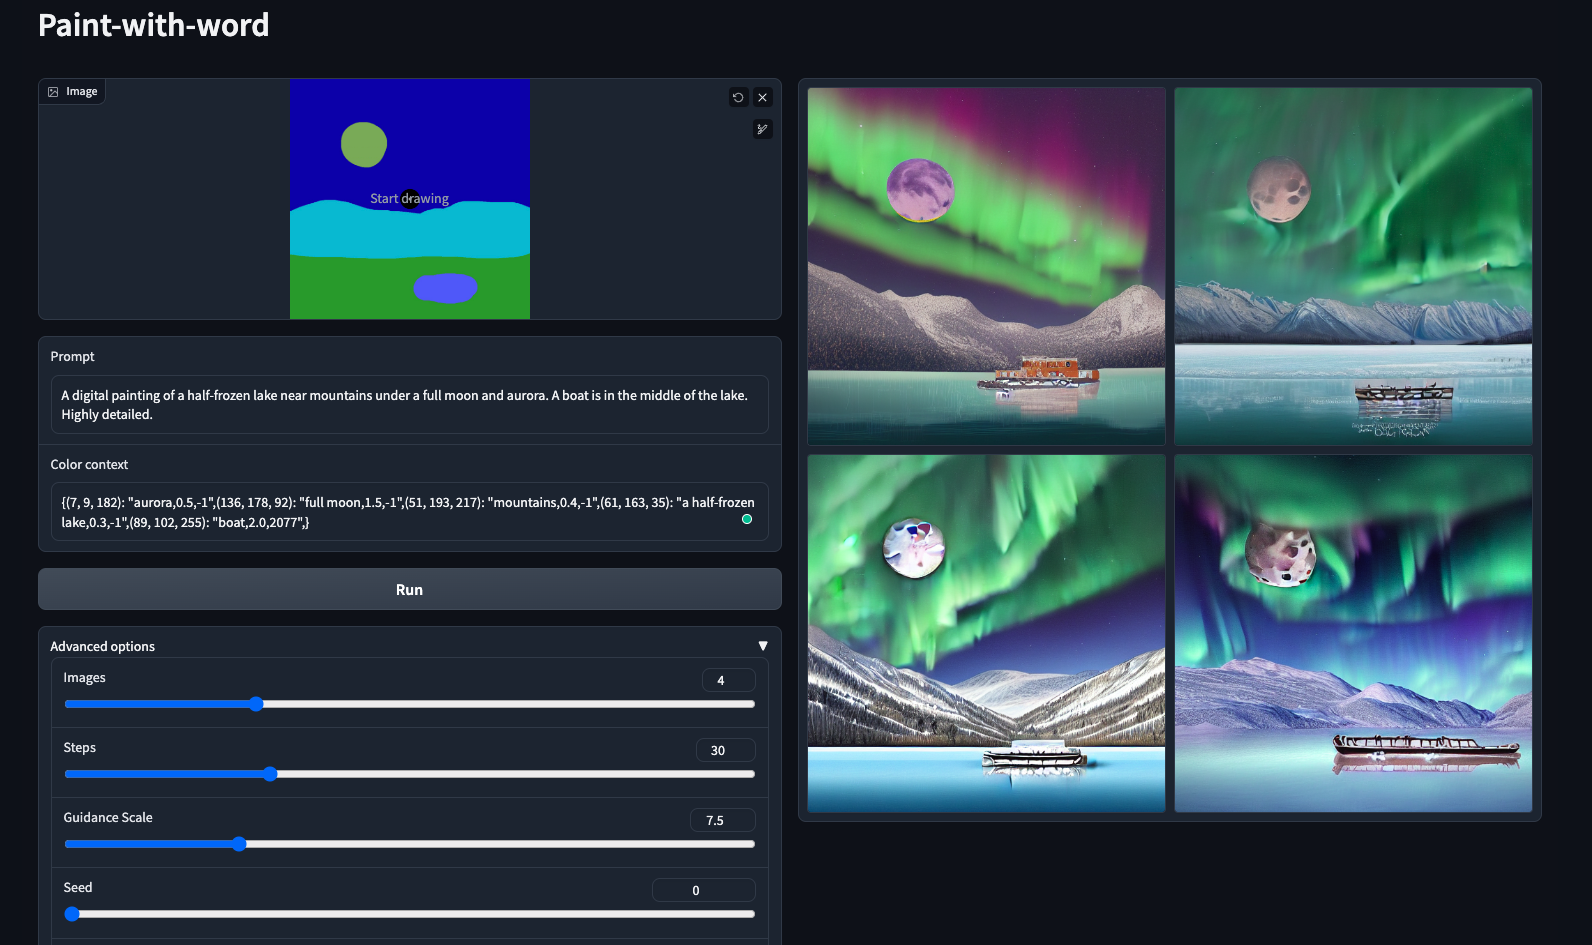
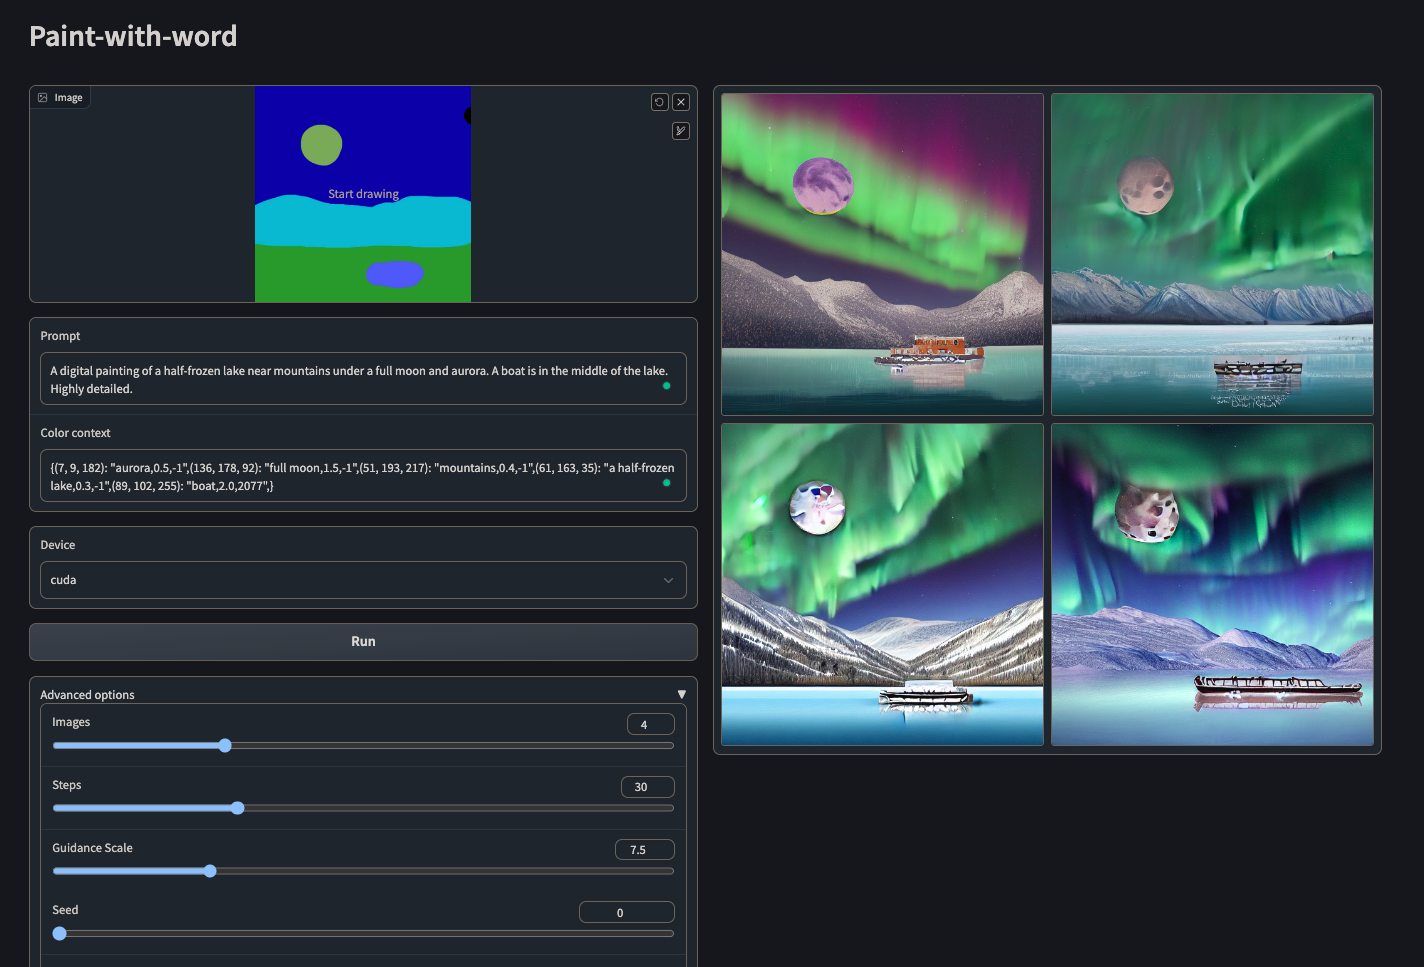
Add device to gradio ui

diff --git a/gradio_pww.py b/gradio_pww.py
@@ -12,11 +12,13 @@ from paint_with_words import paint_with_words
 dotenv.load_dotenv()
 
 
-def run_pww(input_image, color_context, input_prompt, a_prompt, n_prompt, num_samples, ddim_steps, scale, seed, eta):
+def run_pww(input_image, color_context, input_prompt, a_prompt, n_prompt, num_samples, ddim_steps, scale, seed, eta, device):
     
     color_map_image = Image.fromarray(input_image['image'])
     color_context = ast.literal_eval(color_context)
-    
+    if device == 'cuda':
+        device += ':0'
+
     gen_seed = [seed]
     if num_samples > 1:
         gen = torch.Generator()
@@ -32,7 +34,7 @@ def run_pww(input_image, color_context, input_prompt, a_prompt, n_prompt, num_sa
             unconditional_input_prompt=n_prompt,
             num_inference_steps=ddim_steps,
             guidance_scale=scale,
-            device="cuda:0",
+            device=device,
             seed=_seed,
             weight_function=lambda w, sigma, qk: 0.4 * w * math.log(1 + sigma) * qk.max(),
             strength=eta
@@ -51,7 +53,8 @@ with block:
             input_image = gr.Image(source='upload', type='numpy', tool='sketch')
             prompt = gr.Textbox(label="Prompt")
             color_context = gr.Textbox(label="Color context", value='')
-            run_button = gr.Button(label="Run")               
+            device = gr.inputs.Dropdown(label='Device', default='cuda', choices=['cuda', 'mps'])
+            run_button = gr.Button(label="Run")
             with gr.Accordion("Advanced options", open=False):
                 num_samples = gr.Slider(label="Images", minimum=1, maximum=12, value=1, step=1)
                 ddim_steps = gr.Slider(label="Steps", minimum=1, maximum=100, value=30, step=1)
@@ -63,7 +66,7 @@ with block:
                 n_prompt = gr.Textbox(label="Negative Prompt", value='')
         with gr.Column():
             result_gallery = gr.Gallery(label='Output', show_label=False, elem_id="gallery").style(grid=2, height='auto')
-    ips = [input_image, color_context, prompt, a_prompt, n_prompt, num_samples, ddim_steps, scale, seed, eta]
+    ips = [input_image, color_context, prompt, a_prompt, n_prompt, num_samples, ddim_steps, scale, seed, eta, device]
     run_button.click(fn=run_pww, inputs=ips, outputs=[result_gallery])
 
 
